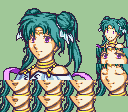
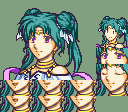
add replace-color-in-portraits

diff --git a/server/test-data/stub-tilemap.ts b/server/test-data/stub-tilemap.ts
@@ -780,156 +780,156 @@ export const stubTilemapImportedTmx: Tilemap = {
       visible: true,
       foreground: false,
       sprite_grid: {
-        "0,0": ["2e002f30", [1, 26]],
-        "1,0": ["2e002f30", [15, 0]],
-        "2,0": ["2e002f30", [2, 24]],
-        "3,0": ["2e002f30", [2, 24]],
-        "4,0": ["2e002f30", [1, 26]],
-        "5,0": ["2e002f30", [14, 22]],
-        "6,0": ["2e002f30", [3, 2]],
-        "7,0": ["2e002f30", [12, 21]],
-        "8,0": ["2e002f30", [13, 21]],
-        "9,0": ["2e002f30", [16, 21]],
-        "10,0": ["2e002f30", [3, 2]],
-        "11,0": ["2e002f30", [25, 18]],
-        "12,0": ["2e002f30", [15, 17]],
-        "13,0": ["2e002f30", [13, 18]],
-        "14,0": ["2e002f30", [15, 17]],
-        "0,1": ["2e002f30", [1, 27]],
-        "1,1": ["2e002f30", [25, 27]],
-        "2,1": ["2e002f30", [0, 31]],
-        "3,1": ["2e002f30", [2, 25]],
-        "4,1": ["2e002f30", [1, 27]],
-        "5,1": ["2e002f30", [3, 2]],
-        "6,1": ["2e002f30", [3, 2]],
-        "7,1": ["2e002f30", [3, 2]],
-        "8,1": ["2e002f30", [6, 2]],
-        "9,1": ["2e002f30", [7, 4]],
-        "10,1": ["2e002f30", [11, 2]],
-        "11,1": ["2e002f30", [24, 18]],
-        "12,1": ["2e002f30", [0, 2]],
-        "13,1": ["2e002f30", [1, 2]],
-        "14,1": ["2e002f30", [15, 13]],
-        "0,2": ["2e002f30", [16, 3]],
-        "1,2": ["2e002f30", [15, 0]],
-        "2,2": ["2e002f30", [7, 2]],
-        "3,2": ["2e002f30", [12, 24]],
-        "4,2": ["2e002f30", [3, 2]],
-        "5,2": ["2e002f30", [3, 2]],
-        "6,2": ["2e002f30", [14, 22]],
-        "7,2": ["2e002f30", [4, 21]],
-        "8,2": ["2e002f30", [6, 3]],
-        "9,2": ["2e002f30", [17, 2]],
-        "10,2": ["2e002f30", [14, 22]],
-        "11,2": ["2e002f30", [2, 0]],
-        "12,2": ["2e002f30", [10, 2]],
-        "13,2": ["2e002f30", [15, 0]],
-        "14,2": ["2e002f30", [0, 2]],
-        "0,3": ["2e002f30", [14, 22]],
-        "1,3": ["2e002f30", [8, 5]],
-        "2,3": ["2e002f30", [7, 3]],
-        "3,3": ["2e002f30", [6, 2]],
-        "4,3": ["2e002f30", [11, 2]],
-        "5,3": ["2e002f30", [3, 2]],
-        "6,3": ["2e002f30", [3, 2]],
-        "7,3": ["2e002f30", [4, 4]],
-        "8,3": ["2e002f30", [2, 21]],
-        "9,3": ["2e002f30", [6, 3]],
-        "10,3": ["2e002f30", [13, 2]],
-        "11,3": ["2e002f30", [24, 18]],
-        "12,3": ["2e002f30", [10, 3]],
-        "13,3": ["2e002f30", [6, 5]],
-        "14,3": ["2e002f30", [7, 4]],
-        "0,4": ["2e002f30", [3, 2]],
-        "1,4": ["2e002f30", [3, 2]],
-        "2,4": ["2e002f30", [12, 24]],
-        "3,4": ["2e002f30", [6, 3]],
-        "4,4": ["2e002f30", [13, 3]],
-        "5,4": ["2e002f30", [12, 24]],
-        "6,4": ["2e002f30", [3, 2]],
-        "7,4": ["2e002f30", [14, 22]],
-        "8,4": ["2e002f30", [4, 4]],
-        "9,4": ["2e002f30", [3, 2]],
-        "10,4": ["2e002f30", [3, 2]],
-        "11,4": ["2e002f30", [23, 18]],
-        "12,4": ["2e002f30", [22, 19]],
-        "13,4": ["2e002f30", [14, 0]],
-        "14,4": ["2e002f30", [6, 3]],
-        "0,5": ["2e002f30", [3, 2]],
-        "1,5": ["2e002f30", [3, 2]],
-        "2,5": ["2e002f30", [3, 2]],
-        "3,5": ["2e002f30", [12, 24]],
-        "4,5": ["2e002f30", [3, 2]],
-        "5,5": ["2e002f30", [3, 2]],
-        "6,5": ["2e002f30", [3, 2]],
-        "7,5": ["2e002f30", [4, 4]],
-        "8,5": ["2e002f30", [14, 22]],
-        "9,5": ["2e002f30", [3, 2]],
-        "10,5": ["2e002f30", [3, 2]],
-        "11,5": ["2e002f30", [12, 2]],
-        "12,5": ["2e002f30", [2, 0]],
-        "13,5": ["2e002f30", [6, 3]],
-        "14,5": ["2e002f30", [15, 2]],
-        "0,6": ["2e002f30", [13, 24]],
-        "1,6": ["2e002f30", [3, 2]],
-        "2,6": ["2e002f30", [14, 24]],
-        "3,6": ["2e002f30", [15, 25]],
-        "4,6": ["2e002f30", [3, 2]],
-        "5,6": ["2e002f30", [3, 2]],
-        "6,6": ["2e002f30", [14, 22]],
-        "7,6": ["2e002f30", [3, 2]],
-        "8,6": ["2e002f30", [14, 24]],
-        "9,6": ["2e002f30", [15, 24]],
-        "10,6": ["2e002f30", [3, 2]],
-        "11,6": ["2e002f30", [3, 2]],
-        "12,6": ["2e002f30", [23, 18]],
-        "13,6": ["2e002f30", [22, 19]],
-        "14,6": ["2e002f30", [8, 3]],
-        "0,7": ["2e002f30", [14, 26]],
-        "1,7": ["2e002f30", [6, 2]],
-        "2,7": ["2e002f30", [11, 2]],
-        "3,7": ["2e002f30", [14, 26]],
-        "4,7": ["2e002f30", [3, 2]],
-        "5,7": ["2e002f30", [3, 2]],
-        "6,7": ["2e002f30", [12, 24]],
-        "7,7": ["2e002f30", [2, 2]],
-        "8,7": ["2e002f30", [3, 2]],
-        "9,7": ["2e002f30", [14, 26]],
-        "10,7": ["2e002f30", [3, 2]],
-        "11,7": ["2e002f30", [4, 3]],
-        "12,7": ["2e002f30", [3, 2]],
-        "13,7": ["2e002f30", [25, 18]],
-        "14,7": ["2e002f30", [10, 3]],
-        "0,8": ["2e002f30", [4, 3]],
-        "1,8": ["2e002f30", [6, 5]],
-        "2,8": ["2e002f30", [13, 2]],
-        "3,8": ["2e002f30", [14, 22]],
-        "4,8": ["2e002f30", [14, 2]],
-        "5,8": ["2e002f30", [12, 24]],
-        "6,8": ["2e002f30", [14, 22]],
-        "7,8": ["2e002f30", [12, 24]],
-        "8,8": ["2e002f30", [3, 2]],
-        "9,8": ["2e002f30", [3, 2]],
-        "10,8": ["2e002f30", [3, 2]],
-        "11,8": ["2e002f30", [3, 2]],
-        "12,8": ["2e002f30", [3, 2]],
-        "13,8": ["2e002f30", [28, 18]],
-        "14,8": ["2e002f30", [24, 1]],
-        "0,9": ["2e002f30", [21, 26]],
-        "1,9": ["2e002f30", [12, 24]],
-        "2,9": ["2e002f30", [2, 5]],
-        "3,9": ["2e002f30", [6, 2]],
-        "4,9": ["2e002f30", [6, 0]],
-        "5,9": ["2e002f30", [9, 2]],
-        "6,9": ["2e002f30", [12, 24]],
-        "7,9": ["2e002f30", [4, 4]],
-        "8,9": ["2e002f30", [14, 22]],
-        "9,9": ["2e002f30", [3, 2]],
-        "10,9": ["2e002f30", [21, 1]],
-        "11,9": ["2e002f30", [26, 1]],
-        "12,9": ["2e002f30", [23, 1]],
-        "13,9": ["2e002f30", [30, 18]],
-        "14,9": ["2e002f30", [31, 21]],
+        "0,0": ["2E002F30", [1, 26]],
+        "1,0": ["2E002F30", [15, 0]],
+        "2,0": ["2E002F30", [2, 24]],
+        "3,0": ["2E002F30", [2, 24]],
+        "4,0": ["2E002F30", [1, 26]],
+        "5,0": ["2E002F30", [14, 22]],
+        "6,0": ["2E002F30", [3, 2]],
+        "7,0": ["2E002F30", [12, 21]],
+        "8,0": ["2E002F30", [13, 21]],
+        "9,0": ["2E002F30", [16, 21]],
+        "10,0": ["2E002F30", [3, 2]],
+        "11,0": ["2E002F30", [25, 18]],
+        "12,0": ["2E002F30", [15, 17]],
+        "13,0": ["2E002F30", [13, 18]],
+        "14,0": ["2E002F30", [15, 17]],
+        "0,1": ["2E002F30", [1, 27]],
+        "1,1": ["2E002F30", [25, 27]],
+        "2,1": ["2E002F30", [0, 31]],
+        "3,1": ["2E002F30", [2, 25]],
+        "4,1": ["2E002F30", [1, 27]],
+        "5,1": ["2E002F30", [3, 2]],
+        "6,1": ["2E002F30", [3, 2]],
+        "7,1": ["2E002F30", [3, 2]],
+        "8,1": ["2E002F30", [6, 2]],
+        "9,1": ["2E002F30", [7, 4]],
+        "10,1": ["2E002F30", [11, 2]],
+        "11,1": ["2E002F30", [24, 18]],
+        "12,1": ["2E002F30", [0, 2]],
+        "13,1": ["2E002F30", [1, 2]],
+        "14,1": ["2E002F30", [15, 13]],
+        "0,2": ["2E002F30", [16, 3]],
+        "1,2": ["2E002F30", [15, 0]],
+        "2,2": ["2E002F30", [7, 2]],
+        "3,2": ["2E002F30", [12, 24]],
+        "4,2": ["2E002F30", [3, 2]],
+        "5,2": ["2E002F30", [3, 2]],
+        "6,2": ["2E002F30", [14, 22]],
+        "7,2": ["2E002F30", [4, 21]],
+        "8,2": ["2E002F30", [6, 3]],
+        "9,2": ["2E002F30", [17, 2]],
+        "10,2": ["2E002F30", [14, 22]],
+        "11,2": ["2E002F30", [2, 0]],
+        "12,2": ["2E002F30", [10, 2]],
+        "13,2": ["2E002F30", [15, 0]],
+        "14,2": ["2E002F30", [0, 2]],
+        "0,3": ["2E002F30", [14, 22]],
+        "1,3": ["2E002F30", [8, 5]],
+        "2,3": ["2E002F30", [7, 3]],
+        "3,3": ["2E002F30", [6, 2]],
+        "4,3": ["2E002F30", [11, 2]],
+        "5,3": ["2E002F30", [3, 2]],
+        "6,3": ["2E002F30", [3, 2]],
+        "7,3": ["2E002F30", [4, 4]],
+        "8,3": ["2E002F30", [2, 21]],
+        "9,3": ["2E002F30", [6, 3]],
+        "10,3": ["2E002F30", [13, 2]],
+        "11,3": ["2E002F30", [24, 18]],
+        "12,3": ["2E002F30", [10, 3]],
+        "13,3": ["2E002F30", [6, 5]],
+        "14,3": ["2E002F30", [7, 4]],
+        "0,4": ["2E002F30", [3, 2]],
+        "1,4": ["2E002F30", [3, 2]],
+        "2,4": ["2E002F30", [12, 24]],
+        "3,4": ["2E002F30", [6, 3]],
+        "4,4": ["2E002F30", [13, 3]],
+        "5,4": ["2E002F30", [12, 24]],
+        "6,4": ["2E002F30", [3, 2]],
+        "7,4": ["2E002F30", [14, 22]],
+        "8,4": ["2E002F30", [4, 4]],
+        "9,4": ["2E002F30", [3, 2]],
+        "10,4": ["2E002F30", [3, 2]],
+        "11,4": ["2E002F30", [23, 18]],
+        "12,4": ["2E002F30", [22, 19]],
+        "13,4": ["2E002F30", [14, 0]],
+        "14,4": ["2E002F30", [6, 3]],
+        "0,5": ["2E002F30", [3, 2]],
+        "1,5": ["2E002F30", [3, 2]],
+        "2,5": ["2E002F30", [3, 2]],
+        "3,5": ["2E002F30", [12, 24]],
+        "4,5": ["2E002F30", [3, 2]],
+        "5,5": ["2E002F30", [3, 2]],
+        "6,5": ["2E002F30", [3, 2]],
+        "7,5": ["2E002F30", [4, 4]],
+        "8,5": ["2E002F30", [14, 22]],
+        "9,5": ["2E002F30", [3, 2]],
+        "10,5": ["2E002F30", [3, 2]],
+        "11,5": ["2E002F30", [12, 2]],
+        "12,5": ["2E002F30", [2, 0]],
+        "13,5": ["2E002F30", [6, 3]],
+        "14,5": ["2E002F30", [15, 2]],
+        "0,6": ["2E002F30", [13, 24]],
+        "1,6": ["2E002F30", [3, 2]],
+        "2,6": ["2E002F30", [14, 24]],
+        "3,6": ["2E002F30", [15, 25]],
+        "4,6": ["2E002F30", [3, 2]],
+        "5,6": ["2E002F30", [3, 2]],
+        "6,6": ["2E002F30", [14, 22]],
+        "7,6": ["2E002F30", [3, 2]],
+        "8,6": ["2E002F30", [14, 24]],
+        "9,6": ["2E002F30", [15, 24]],
+        "10,6": ["2E002F30", [3, 2]],
+        "11,6": ["2E002F30", [3, 2]],
+        "12,6": ["2E002F30", [23, 18]],
+        "13,6": ["2E002F30", [22, 19]],
+        "14,6": ["2E002F30", [8, 3]],
+        "0,7": ["2E002F30", [14, 26]],
+        "1,7": ["2E002F30", [6, 2]],
+        "2,7": ["2E002F30", [11, 2]],
+        "3,7": ["2E002F30", [14, 26]],
+        "4,7": ["2E002F30", [3, 2]],
+        "5,7": ["2E002F30", [3, 2]],
+        "6,7": ["2E002F30", [12, 24]],
+        "7,7": ["2E002F30", [2, 2]],
+        "8,7": ["2E002F30", [3, 2]],
+        "9,7": ["2E002F30", [14, 26]],
+        "10,7": ["2E002F30", [3, 2]],
+        "11,7": ["2E002F30", [4, 3]],
+        "12,7": ["2E002F30", [3, 2]],
+        "13,7": ["2E002F30", [25, 18]],
+        "14,7": ["2E002F30", [10, 3]],
+        "0,8": ["2E002F30", [4, 3]],
+        "1,8": ["2E002F30", [6, 5]],
+        "2,8": ["2E002F30", [13, 2]],
+        "3,8": ["2E002F30", [14, 22]],
+        "4,8": ["2E002F30", [14, 2]],
+        "5,8": ["2E002F30", [12, 24]],
+        "6,8": ["2E002F30", [14, 22]],
+        "7,8": ["2E002F30", [12, 24]],
+        "8,8": ["2E002F30", [3, 2]],
+        "9,8": ["2E002F30", [3, 2]],
+        "10,8": ["2E002F30", [3, 2]],
+        "11,8": ["2E002F30", [3, 2]],
+        "12,8": ["2E002F30", [3, 2]],
+        "13,8": ["2E002F30", [28, 18]],
+        "14,8": ["2E002F30", [24, 1]],
+        "0,9": ["2E002F30", [21, 26]],
+        "1,9": ["2E002F30", [12, 24]],
+        "2,9": ["2E002F30", [2, 5]],
+        "3,9": ["2E002F30", [6, 2]],
+        "4,9": ["2E002F30", [6, 0]],
+        "5,9": ["2E002F30", [9, 2]],
+        "6,9": ["2E002F30", [12, 24]],
+        "7,9": ["2E002F30", [4, 4]],
+        "8,9": ["2E002F30", [14, 22]],
+        "9,9": ["2E002F30", [3, 2]],
+        "10,9": ["2E002F30", [21, 1]],
+        "11,9": ["2E002F30", [26, 1]],
+        "12,9": ["2E002F30", [23, 1]],
+        "13,9": ["2E002F30", [30, 18]],
+        "14,9": ["2E002F30", [31, 21]],
       },
       terrain_grid: {
         "0,0": "9",
@@ -1085,6 +1085,6 @@ export const stubTilemapImportedTmx: Tilemap = {
       },
     },
   ],
-  tilesets: ["2e002f30"],
+  tilesets: ["2E002F30"],
 };
 

diff --git a/server/portrait-processing/replace-color-in-portraits.ts b/server/portrait-processing/replace-color-in-portraits.ts
@@ -1,0 +1,35 @@
+import { Image } from "https://deno.land/x/imagescript@1.2.15/mod.ts";
+import { getPathWithinServer } from "@/file-io/get-path-within-server.ts";
+import getAllPortraitFileNames from "@/portrait-processing/get-all-portrait-paths.ts";
+
+export default async function replaceColorInPortraits(): Promise<void> {
+  const portraitsDir = getPathWithinServer("assets/portraits");
+  const fileNames = getAllPortraitFileNames();
+  for (const fileName of fileNames) {
+    const filePath = `${portraitsDir}/${fileName}`;
+    const imageData = await Deno.readFile(filePath);
+    const img = await Image.decode(imageData);
+    for (let x = 1; x <= img.width; x++) {
+      for (let y = 1; y <= img.height; y++) {
+        const pixel = img.getPixelAt(x, y);
+        const r = (pixel >> 24) & 0xFF;
+        const g = (pixel >> 16) & 0xFF;
+        const b = (pixel >> 8) & 0xFF;
+        const a = pixel & 0xFF;
+        if (r === 160 && g === 200 && b === 152 && a === 255) {
+          const newPixel = (128 << 24) | (160 << 16) | (128 << 8) | 255;
+          img.setPixelAt(x, y, newPixel);
+        }
+      }
+    }
+    const encoded = await img.encode();
+    await Deno.writeFile(filePath, encoded);
+    console.log(`Processed: ${fileName}`);
+  }
+}
+
+if (import.meta.main) {
+  replaceColorInPortraits().then(() => {
+    console.log("Completed processing all portrait images.");
+  });
+}

diff --git a/server/portrait-processing/process-all-portraits.ts b/server/portrait-processing/process-all-portraits.ts
@@ -2,8 +2,10 @@ import getAllPortraitFileNames from "@/portrait-processing/get-all-portrait-path
 import genPortraitMetadata from "@/portrait-processing/gen-portrait-metadata.ts";
 import { getPathWithinServer } from "@/file-io/get-path-within-server.ts";
 import writeAllPortraitOptions from "@/portrait-processing/write-all-portrait-options.ts";
+import replaceColorInPortraits from "@/portrait-processing/replace-color-in-portraits.ts";
 
 export default async function processAllPortraits(): Promise<void> {
+  await replaceColorInPortraits();
   const portraitFileNames = getAllPortraitFileNames();
 
   const portraitMetadatas = await Promise.all(
